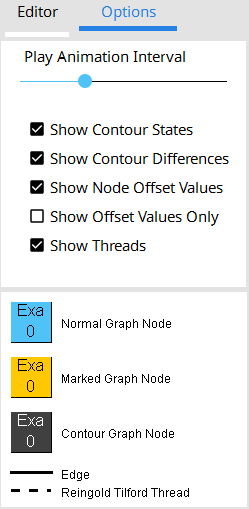
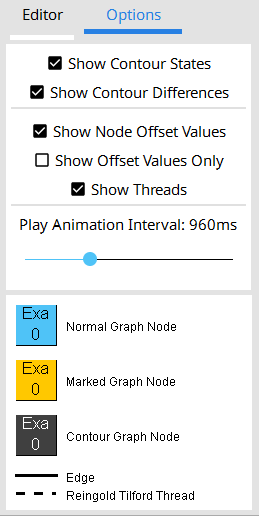
Update Docs

diff --git a/RTProject/src/main/java/graph/drawing/RTProject/MainFrame.java b/RTProject/src/main/java/graph/drawing/RTProject/MainFrame.java
@@ -265,10 +265,11 @@ public class MainFrame extends JFrame {
 	 */
 	public MainFrame() {
 		// Load the last path of the file chooser
-		try {
-			fc.setSelectedFile(new File(GraphLoader.readTextfile(lastPathPath)));
-		} catch (Exception e) {
-		}
+		String path = GraphLoader.readTextfile(lastPathPath);
+		if (!path.contentEquals(""))
+			fc.setSelectedFile(new File(path));
+		else
+			fc.setCurrentDirectory(new File("."));
 
 		// Set the icon / Swing doesn't seem to like .ico files for some reason
 		setIconImage(new ImageIcon(".\\icon.png").getImage());
@@ -397,7 +398,7 @@ public class MainFrame extends JFrame {
 					enableControlElements();
 					String fileName = JOptionPane.showInputDialog(frame, "How should the new file be named?");
 
-					String newFilePath = fc.getSelectedFile().getParent() + File.separatorChar + fileName;
+					String newFilePath = fc.getCurrentDirectory().getAbsolutePath() + File.separatorChar + fileName;
 					File newFile = new File(newFilePath);
 					try {
 						newFile.createNewFile();

diff --git a/RTProject/src/main/java/phases/RTLayoutPhase.java b/RTProject/src/main/java/phases/RTLayoutPhase.java
@@ -87,7 +87,7 @@ public class RTLayoutPhase implements Phase {
 				Help.getProp(rightChild).xOffset = dv / 2;
 				
 				// Add the animation state if enabled
-				if (!Options.hideContourDifferenceStates)
+				if (!Options.hideContourDifferenceStates && !Options.hideContourStates)
 					states.addState(new GraphState(
 							"Phase 1, Postorder: Set offsets of childs of " + n.getIdentifier()
 									+ " | Check difference of " + leftContour.get(i).getIdentifier() + " and "

diff --git a/RTProject/src/main/java/graph/drawing/RTProject/GraphLoader.java b/RTProject/src/main/java/graph/drawing/RTProject/GraphLoader.java
@@ -147,9 +147,7 @@ public class GraphLoader {
 
 		try {
 			content = new String(Files.readAllBytes(Paths.get(path)));
-		} catch (IOException e) {
-			e.printStackTrace();
-		}
+		} catch (IOException e) { }
 
 		return content;
 	}

diff --git a/README.md b/README.md
@@ -14,7 +14,7 @@ After starting the application for the first time you should see this window. If
 ![OwO thewes missing some something D:](Documentation-Resources/startup.png "Hey, im a popup :P")
 
 The first thing you want to do is to press the ``Load File`` button, this will load up the standart java swing file selector. With that you should select a text file that contains a valid graph. Do not worry though the program will remember the last file you selected so you won't have to go though all of your folder twice.  
-Alternatively you can also type a valid graph into the editor and hit ``CTRL + S`` or ``Save``.
+Alternatively you can also type a valid graph into the editor and hit ``CTRL + S``, ``Save`` or ``Save as new File``. The first two will write the graph into a temporary file while the latter lets you choose a filename and 
 
 ### Valid File Formats
 
@@ -114,10 +114,11 @@ Also noteworthy is a simple syntax highlighter that highlights the currently mar
 
 ![OwO thewes missing some something D:](Documentation-Resources/options.png "Hey, im a popup :P")
 
-The options menu currently contains an animation interval slider and 4 level of detail options.  
+The options menu currently contains 5 level of detail options and an animation interval slider. 
+They are grouped by seperators. The first two options hide animation states, the three in the middle are drawing options and the last one is for animation options.
 
-The first one shows all animations states that show how the contour was calculated.
-The second option shows all states that show the distance check on each contour layer.  
+The first option shows or hides all states that show the contour. 
+The second option shows all states that show the distance check on each contour layer.
 The third option shows the xOffset values that the algorithm saves for each node. They are usually displayd below the nodes name. 
 The fourth only shows the offset value for each node.
 The fifth option hides threads which are displayed as dashed lines.
@@ -127,7 +128,7 @@ Therefore some options disable others.
 
 ![OwO thewes missing some something D:](Documentation-Resources/options_dis.png "Hey, im a popup :P")
 
-The legend also shows changes in the options.
+The legend also immediately shows changes in the options.
 
 #### Pane 4
 
